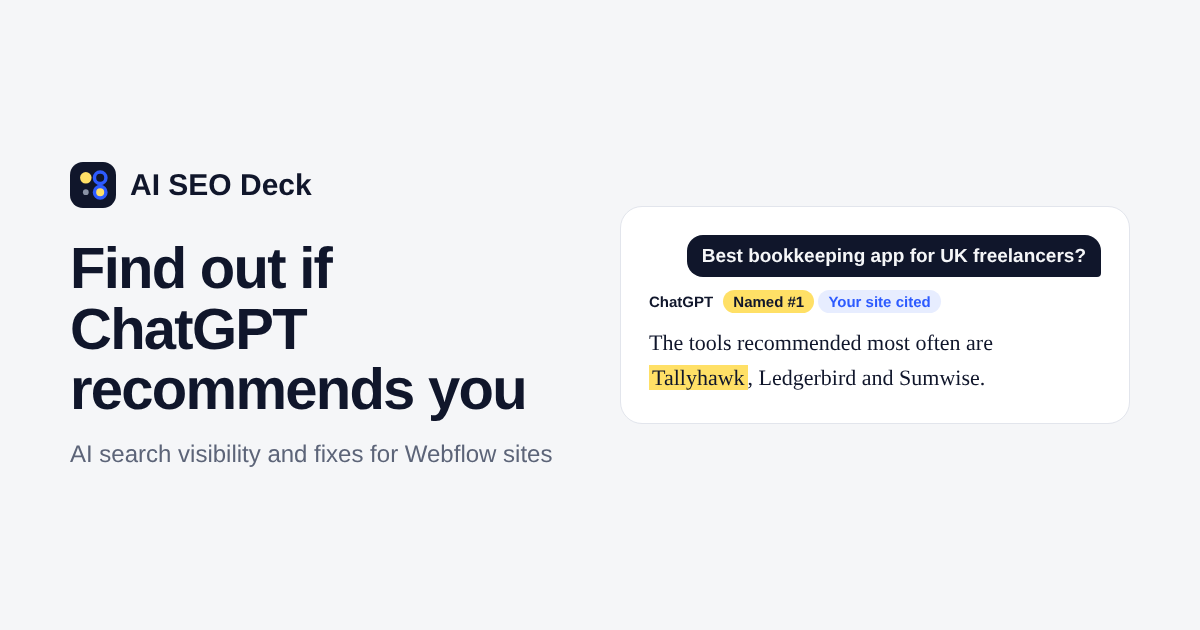
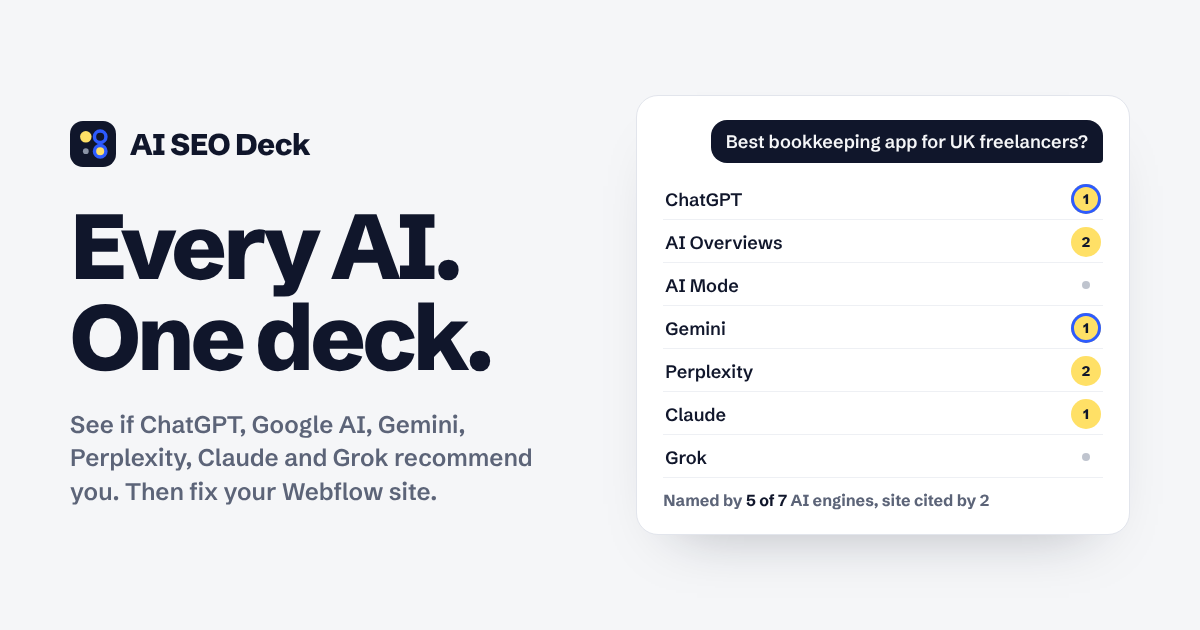
Social image: Every AI. One deck. with the seven-engine grid
The old image still said ChatGPT only. scripts/brand.js can embed
Schibsted Grotesk from FONT_DIR when rendering.

Claude-Session: https://claude.ai/code/session_01XtbaGHy5N635RygHHEY59Z

diff --git a/scripts/brand.js b/scripts/brand.js
@@ -4,14 +4,29 @@ const path = require('path');
 const { chromium } = require('playwright');
 const ROOT = path.join(__dirname, '..');
 const logo = (s) => `<svg width="${s}" height="${s}" viewBox="0 0 32 32"><rect width="32" height="32" rx="9" fill="#10162B"/><circle cx="11" cy="11" r="4" fill="#FFE066"/><circle cx="21" cy="11" r="4" fill="none" stroke="#2D5BFF" stroke-width="2.4"/><circle cx="11" cy="21" r="2" fill="#8A93A6"/><circle cx="21" cy="21" r="4" fill="#FFE066" stroke="#2D5BFF" stroke-width="2.4"/></svg>`;
-const og = `<div style="width:1200px;height:630px;background:#F5F6F8;display:grid;grid-template-columns:1fr 1fr;gap:40px;align-items:center;padding:0 70px;box-sizing:border-box;font-family:'Schibsted Grotesk',Arial,sans-serif;color:#10162B">
-<div><div style="display:flex;align-items:center;gap:14px;font-weight:800;font-size:30px">${logo(46)}AI SEO Deck</div>
-<div style="font-size:58px;font-weight:800;line-height:1.05;letter-spacing:-.03em;margin-top:30px">Find out if ChatGPT recommends you</div>
-<div style="font-size:24px;color:#5C6478;margin-top:20px">AI search visibility and fixes for Webflow sites</div></div>
-<div style="background:#fff;border:1px solid #E2E5EC;border-radius:22px;padding:28px;display:grid;gap:16px">
-<div style="justify-self:end;background:#10162B;color:#F5F6F8;border-radius:16px 16px 4px 16px;padding:10px 15px;font-weight:600;font-size:19px">Best bookkeeping app for UK freelancers?</div>
-<div style="font-size:15px;font-weight:700">ChatGPT <span style="background:#FFE066;border-radius:99px;padding:3px 10px;margin-left:6px">Named #1</span> <span style="background:#E7EDFF;color:#2D5BFF;border-radius:99px;padding:3px 10px">Your site cited</span></div>
-<div style="font-family:Georgia,serif;font-size:22px;line-height:1.55">The tools recommended most often are <span style="background:#FFE066;padding:0 3px">Tallyhawk</span>, Ledgerbird and Sumwise.</div></div></div>`;
+// Optional: FONT_DIR=<folder with @fontsource woff2 files> embeds Schibsted Grotesk; otherwise Arial is used.
+const fs = require('fs');
+function fontCss() {
+  const dir = process.env.FONT_DIR;
+  if (!dir) return '';
+  return [600, 700, 800].map((w) => {
+    const f = path.join(dir, `schibsted-grotesk-latin-${w}-normal.woff2`);
+    return fs.existsSync(f) ? `@font-face{font-family:'Schibsted Grotesk';font-weight:${w};src:url(data:font/woff2;base64,${fs.readFileSync(f).toString('base64')}) format('woff2')}` : '';
+  }).join('');
+}
+// The same question across the seven engines, like the grid on the landing page
+const rows = [['ChatGPT', 'both', '1'], ['AI Overviews', 'named', '2'], ['AI Mode', 'none', ''], ['Gemini', 'both', '1'], ['Perplexity', 'named', '2'], ['Claude', 'named', '1'], ['Grok', 'none', '']];
+const cell = (k, n) => k === 'none'
+  ? '<span style="width:30px;height:30px;display:inline-grid;place-items:center"><span style="width:8px;height:8px;border-radius:50%;background:#8A93A6;opacity:.55"></span></span>'
+  : `<span style="width:30px;height:30px;border-radius:50%;display:inline-grid;place-items:center;font-weight:800;font-size:14px;background:#FFE066;${k === 'both' ? 'box-shadow:inset 0 0 0 3px #2D5BFF' : ''}">${n}</span>`;
+const og = `<div style="width:1200px;height:630px;background:#F5F6F8;display:grid;grid-template-columns:1.05fr 1fr;gap:48px;align-items:center;padding:0 70px;box-sizing:border-box;font-family:'Schibsted Grotesk',Arial,sans-serif;color:#10162B">
+<div><div style="display:flex;align-items:center;gap:14px;font-weight:800;font-size:30px;letter-spacing:-.02em">${logo(46)}AI SEO Deck</div>
+<div style="font-size:92px;font-weight:800;line-height:.98;letter-spacing:-.045em;margin-top:34px">Every AI.<br>One deck.</div>
+<div style="font-size:24px;line-height:1.4;color:#5C6478;margin-top:26px;max-width:470px">See if ChatGPT, Google AI, Gemini, Perplexity, Claude and Grok recommend you. Then fix your Webflow site.</div></div>
+<div style="background:#fff;border:1px solid #E2E5EC;border-radius:22px;padding:24px 26px;display:grid;gap:12px;box-shadow:0 30px 60px -40px rgba(16,22,43,.35)">
+<div style="justify-self:end;background:#10162B;color:#F5F6F8;border-radius:16px 16px 4px 16px;padding:10px 15px;font-weight:600;font-size:18px">Best bookkeeping app for UK freelancers?</div>
+<div style="display:grid;gap:2px;margin-top:4px">${rows.map(([e, k, n]) => `<div style="display:flex;justify-content:space-between;align-items:center;padding:5px 2px;border-bottom:1px solid #EEF0F4;font-size:18px;font-weight:600">${e}${cell(k, n)}</div>`).join('')}</div>
+<div style="font-size:16px;font-weight:700;color:#5C6478">Named by <span style="color:#10162B">5 of 7</span> AI engines, site cited by 2</div></div></div>`;
 (async () => {
   const b = await chromium.launch();
   const p = await b.newPage({ viewport: { width: 1200, height: 900 } });
@@ -19,7 +34,8 @@ const og = `<div style="width:1200px;height:630px;background:#F5F6F8;display:gri
     await p.setContent(`<body style="margin:0;background:transparent">${logo(size)}</body>`);
     await p.locator('svg').screenshot({ path: path.join(ROOT, file), omitBackground: true });
   }
-  await p.setContent(`<body style="margin:0">${og}</body>`);
+  await p.setContent(`<head><style>${fontCss()}</style></head><body style="margin:0">${og}</body>`);
+  await p.evaluate(() => document.fonts.ready);
   await p.locator('body > div').screenshot({ path: path.join(ROOT, 'public/og.png') });
   await b.close();
   console.log('brand images written');
